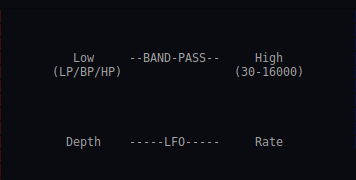
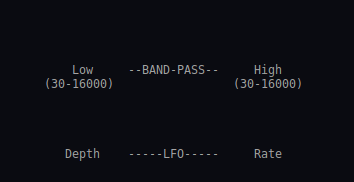
New interface New background, new knobs

diff --git a/CVDMod.cpp b/CVDMod.cpp
@@ -7,8 +7,11 @@ const int kNumPrograms = 1;
 
 enum EParams
 {
-  kWet = 0,
+  kRate = 0,
   kDepth,
+  kHighFreq,
+  kLowFreq,
+  kWet,
   kNumParams
 };
 
@@ -17,10 +20,14 @@ enum ELayout
   kWidth = GUI_WIDTH,
   kHeight = GUI_HEIGHT,
 
-  kWetX = 100,
-  kWetY = 100,
-  kDepthX = 200,
+  kRateX = 245,
+  kRateY = 100,
+  kDepthX = 60,
   kDepthY = 100,
+  kHighFreqX = 245,
+  kHighFreqY = 15,
+  kLowFreqX = 60,
+  kLowFreqY = 15,
   kKnobFrames = 60
 };
 
@@ -30,18 +37,24 @@ CVDMod::CVDMod(IPlugInstanceInfo instanceInfo)
   TRACE;
 
   //arguments are: name, defaultVal, minVal, maxVal, step, label
-  GetParam(kWet)->InitDouble("Dry/Wet", 50., 0., 100.0, 0.01, "%");
-  GetParam(kWet)->SetShape(1.);
+  GetParam(kRate)->InitDouble("Rate", 50., 0., 100.0, 1.00, "%");
+  GetParam(kRate)->SetShape(2.);
   GetParam(kDepth)->InitDouble("Depth", 50., 0., 100.0, 1.00, "%");
   GetParam(kDepth)->SetShape(2.);
+  GetParam(kHighFreq)->InitDouble("HighFreq", 1000., 30., 20000.0, 1.00, "Hz");
+  GetParam(kHighFreq)->SetShape(2.);
+  GetParam(kLowFreq)->InitDouble("LowFreq", 1000., 30., 20000.0, 1.00, "Hz");
+  GetParam(kLowFreq)->SetShape(2.);
 
   IGraphics* pGraphics = MakeGraphics(this, kWidth, kHeight);
-  pGraphics->AttachPanelBackground(&COLOR_RED);
+  pGraphics->AttachBackground(BG_ID, BG_FN);
 
   IBitmap knob = pGraphics->LoadIBitmap(KNOB_ID, KNOB_FN, kKnobFrames);
 
-  pGraphics->AttachControl(new IKnobMultiControl(this, kWetX, kWetY, kWet, &knob));
+  pGraphics->AttachControl(new IKnobMultiControl(this, kRateX, kRateY, kRate, &knob));
   pGraphics->AttachControl(new IKnobMultiControl(this, kDepthX, kDepthY, kDepth, &knob));
+  pGraphics->AttachControl(new IKnobMultiControl(this, kHighFreqX, kHighFreqY, kHighFreq, &knob));
+  pGraphics->AttachControl(new IKnobMultiControl(this, kLowFreqX, kLowFreqY, kLowFreq, &knob));
 
   AttachGraphics(pGraphics);
 
@@ -94,7 +107,6 @@ void CVDMod::OnParamChange(int paramIdx)
       mModProcessorL.setDepth(mDepth);
       mModProcessorR.setDepth(mDepth);
       break;
-
     default:
       break;
   }

diff --git a/resource.h b/resource.h
@@ -58,13 +58,15 @@ instrument determined by PLUG _IS _INST
 
 // Unique IDs for each image resource.
 #define KNOB_ID 101
+#define BG_ID 102
 
 // Image resource locations for this plug.
 #define KNOB_FN "resources/img/knob.png"
+#define BG_FN "resources/img/bg.png"
 
 // GUI default dimensions
-#define GUI_WIDTH 300
-#define GUI_HEIGHT 300
+#define GUI_WIDTH 356
+#define GUI_HEIGHT 185
 
 // on MSVC, you must define SA_API in the resource editor preprocessor macros as well as the c++ ones
 #if defined(SA_API)
